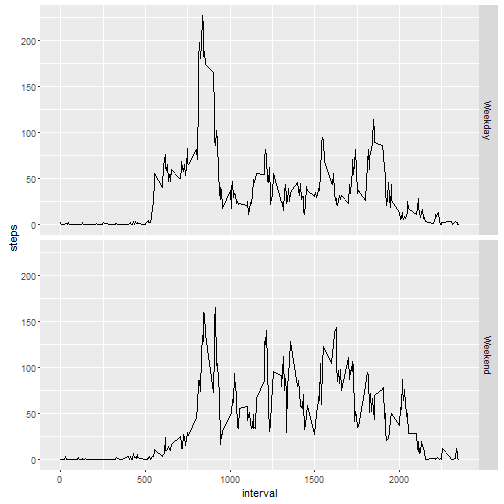
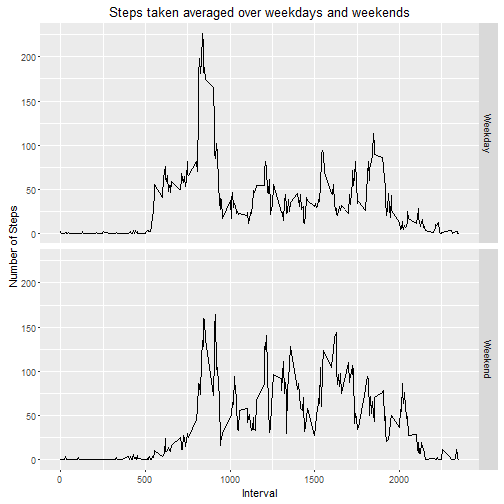
Edited Assignment.Rmd

diff --git a/ReproducibleResearch/Assignment1/Assignment.html b/ReproducibleResearch/Assignment1/Assignment.html
@@ -335,18 +335,10 @@ int_steps &lt;- aggregate(steps~interval+weekday,with_na,mean)
 
 # Plotting the panel plot of number of steps in each interval 
 # factored by weekdays and weekends
-ggplot(int_steps,aes(interval,steps)) + geom_line() + facet_grid(weekday ~ .) 
+ggplot(int_steps,aes(interval,steps)) + geom_line() + facet_grid(weekday ~ .) + labs(title = &quot;Steps taken averaged over weekdays and weekends&quot;, x = &quot;Interval&quot; , y = &quot;Number of Steps&quot;)
 </code></pre>
 
[1 lines of base64/hex data omitted]
-
-<pre><code class="r">+ labs(title = &quot;Steps taken averaged over weekdays and weekends&quot;, 
-x = &quot;Interval&quot; , 
-y = &quot;Number of Steps&quot;)
-</code></pre>
-
-<pre><code>## Error in +labs(title = &quot;Steps taken averaged over weekdays and weekends&quot;, : invalid argument to unary operator
-</code></pre>
[1 lines of base64/hex data omitted]
 
 </body>
 

diff --git a/ReproducibleResearch/Assignment1/Assignment.md b/ReproducibleResearch/Assignment1/Assignment.md
@@ -138,17 +138,7 @@ int_steps <- aggregate(steps~interval+weekday,with_na,mean)
 
 # Plotting the panel plot of number of steps in each interval 
 # factored by weekdays and weekends
-ggplot(int_steps,aes(interval,steps)) + geom_line() + facet_grid(weekday ~ .) 
+ggplot(int_steps,aes(interval,steps)) + geom_line() + facet_grid(weekday ~ .) + labs(title = "Steps taken averaged over weekdays and weekends", x = "Interval" , y = "Number of Steps")
 ```
 
 ![plot of chunk unnamed-chunk-12](figure/unnamed-chunk-12-1.png)
-
-```r
-+ labs(title = "Steps taken averaged over weekdays and weekends", 
-x = "Interval" , 
-y = "Number of Steps")
-```
-
-```
-## Error in +labs(title = "Steps taken averaged over weekdays and weekends", : invalid argument to unary operator
-```
